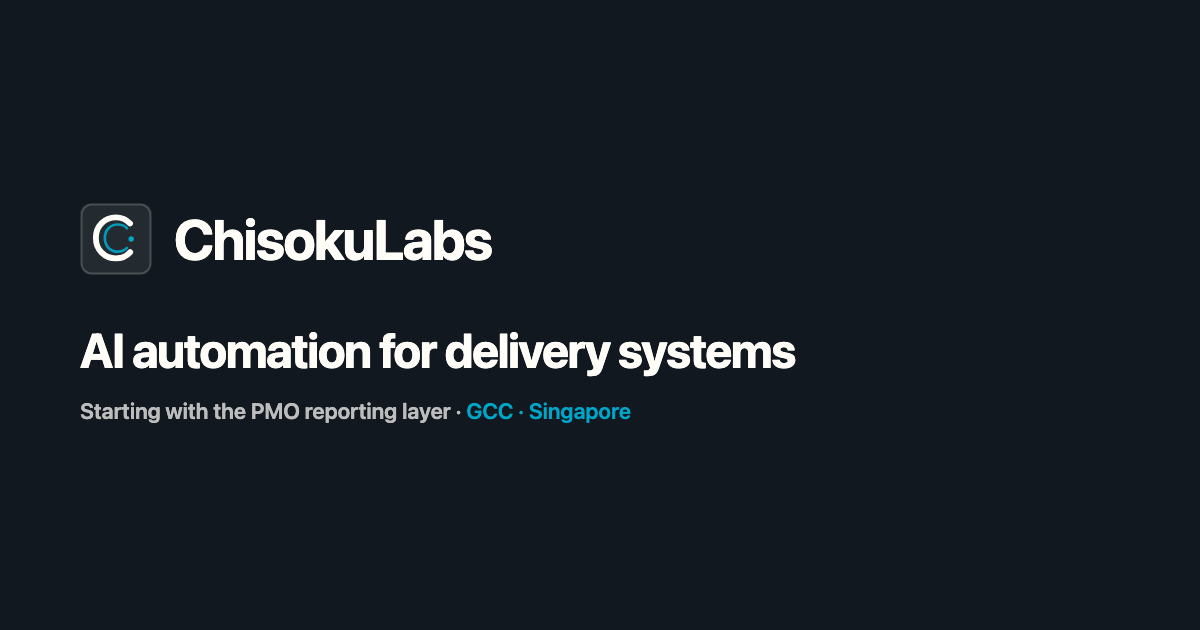
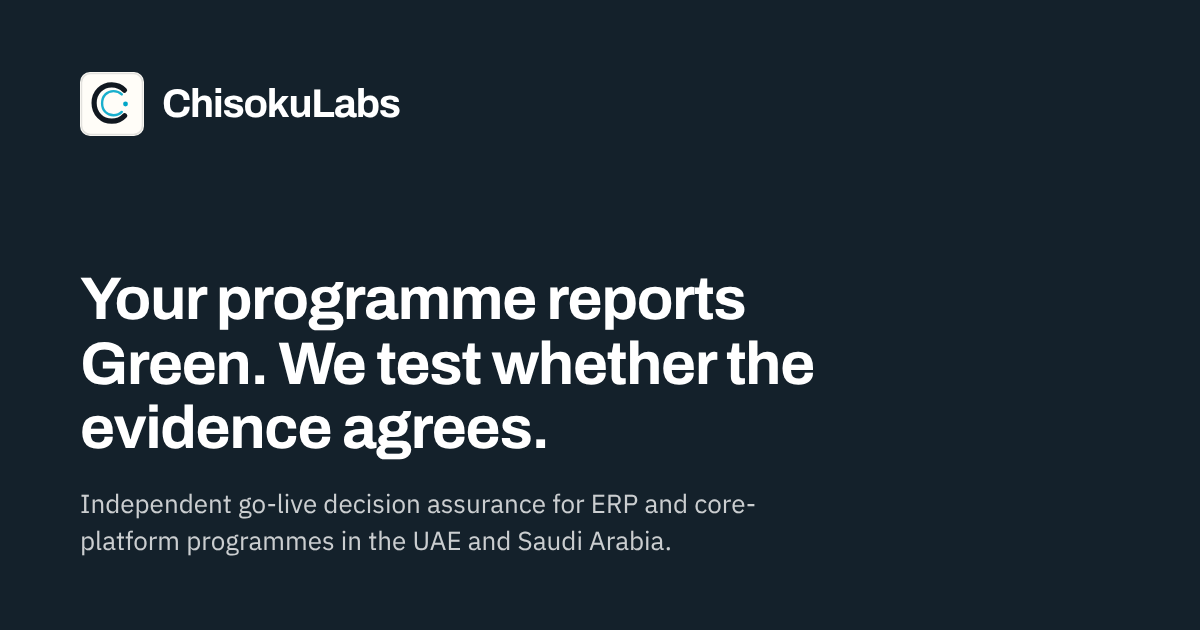
E1.3/E1.5 follow-ups: legacy metadata out, "a"/"an" slip label
- layout.tsx: default title, description, Open Graph and Twitter use the
  new positioning (src/lib/seo.ts); old keywords and the three old-offer
  Service JSON-LD blocks removed (E8.4 adds the new ones).
- public/og.png: new share image (hero headline on ink); the old one
  said "AI automation for delivery systems ... GCC, Singapore".
- Homepage metadata repeats the share image (nested metadata replaces
  the layout's).
- slipLabel(): "Cost of an 8-week slip"; unit test added.
- PRD: IN-7 and IN-9 recorded as approved.

Claude-Session: https://claude.ai/code/session_01PjTSmoa7gbhvyfhk5vcqXm

diff --git a/src/app/layout.tsx b/src/app/layout.tsx
@@ -4,13 +4,8 @@ import "../styles/globals.css";
 import { JsonLdScript } from "../components/aeo/JsonLdScript";
 import { Nav } from "../components/layout/Nav";
 import { Footer } from "../components/layout/Footer";
-import {
-  auditServiceJsonLd,
-  diagnosticServiceJsonLd,
-  implementationServiceJsonLd,
-  organizationJsonLd,
-  websiteJsonLd,
-} from "../lib/jsonLd";
+import { organizationJsonLd, websiteJsonLd } from "../lib/jsonLd";
+import { defaultDescription, defaultTitle, ogImage } from "../lib/seo";
 import { siteConfig } from "../lib/siteConfig";
 import { Analytics } from "@vercel/analytics/next";
 import { SpeedInsights } from "@vercel/speed-insights/next";
@@ -41,43 +36,26 @@ const siteUrl = siteConfig.url;
 export const metadata: Metadata = {
   metadataBase: new URL(siteUrl),
   title: {
-    default: "PMO Reporting Automation | ChisokuLabs",
+    default: defaultTitle,
     template: "%s | ChisokuLabs",
   },
-  description:
-    "ChisokuLabs builds AI automation into delivery systems—starting with the PMO reporting layer for growth-stage SMEs in the GCC and Singapore.",
-  keywords: [
-    "AI automation delivery systems",
-    "PMO reporting automation",
-    "PMO automation audit GCC",
-    "project reporting AI Singapore",
-    "ChisokuLabs",
-  ],
+  description: defaultDescription,
   alternates: {
     canonical: siteUrl,
   },
   openGraph: {
     type: "website",
     url: siteUrl,
-    title: "AI Automation for Delivery Systems | ChisokuLabs",
-    description:
-      "Find delivery drag in the PMO reporting layer—then automate what repeats.",
+    title: defaultTitle,
+    description: defaultDescription,
     siteName: "ChisokuLabs",
-    images: [
-      {
-        url: "/og.png",
-        width: 1200,
-        height: 630,
-        alt: "ChisokuLabs — AI automation for delivery systems",
-      },
-    ],
+    images: [ogImage],
   },
   twitter: {
     card: "summary_large_image",
-    title: "AI Automation for Delivery Systems | ChisokuLabs",
-    description:
-      "Starting with the PMO reporting layer for GCC and Singapore growth-stage SMEs.",
-    images: ["/og.png"],
+    title: defaultTitle,
+    description: defaultDescription,
+    images: [ogImage.url],
   },
   icons: {
     icon: "/brand/favicon-mark.png",
@@ -106,15 +84,7 @@ export default function RootLayout({
           <main className="site-main pt-20">{children}</main>
           <Footer />
         </div>
-        <JsonLdScript id="chisokulabs-audit-service-ld-json" data={auditServiceJsonLd()} />
-        <JsonLdScript
-          id="chisokulabs-diagnostic-service-ld-json"
-          data={diagnosticServiceJsonLd()}
-        />
-        <JsonLdScript
-          id="chisokulabs-implementation-service-ld-json"
-          data={implementationServiceJsonLd()}
-        />
+        {/* The old-offer Service JSON-LD is gone; E8.4 adds Service and Offer blocks for the new offers. */}
         <Analytics />
         <SpeedInsights />
       </body>

diff --git a/src/components/home/SlipCostEstimator.tsx b/src/components/home/SlipCostEstimator.tsx
@@ -2,7 +2,7 @@
 
 import * as React from "react";
 import { formatPrice, offerPriceLabel, siteConfig } from "../../lib/siteConfig";
-import { slipEstimate, type SlipInputs } from "../../lib/slipEstimate";
+import { slipEstimate, slipLabel, type SlipInputs } from "../../lib/slipEstimate";
 import { track } from "../../lib/track";
 import { Button } from "../ui/Button";
 import { Sheet } from "../ui/Sheet";
@@ -53,7 +53,8 @@ export function SlipCostEstimator() {
   const priceText = price.founding ? `${price.list} list, ${price.founding} founding-client rate` : price.list;
 
   // Announce the result once typing pauses, so screen readers are not flooded on every keystroke.
-  const summary = `Cost per week of slip: ${weekly}. Cost of a ${weeks}-week slip: ${total}.`;
+  const totalLabel = slipLabel(weeks);
+  const summary = `Cost per week of slip: ${weekly}. ${totalLabel}: ${total}.`;
   React.useEffect(() => {
     if (!tracked.current) return;
     const timer = window.setTimeout(() => setAnnouncement(summary), ANNOUNCE_DELAY_MS);
@@ -119,7 +120,7 @@ export function SlipCostEstimator() {
             <dd className="t-data mt-2 text-[32px] leading-none tracking-[-0.03em] text-ink min-[641px]:text-[40px]">{weekly}</dd>
           </div>
           <div>
-            <dt className="t-small text-muted">{`Cost of a ${weeks}-week slip`}</dt>
+            <dt className="t-small text-muted">{totalLabel}</dt>
             <dd className="t-data mt-2 text-[32px] leading-none tracking-[-0.03em] text-ink min-[641px]:text-[40px]">{total}</dd>
           </div>
         </dl>
@@ -144,7 +145,7 @@ export function SlipCostEstimator() {
 
         <div aria-hidden className="grid gap-2 text-[13px]">
           <p className="flex justify-between gap-3">
-            <span className="font-semibold text-ink">{`Cost of a ${weeks}-week slip`}</span>
+            <span className="font-semibold text-ink">{totalLabel}</span>
             <span className="t-data text-ink">{total}</span>
           </p>
           <span className="h-3.5 overflow-hidden rounded-full bg-faint">

diff --git a/src/app/page.tsx b/src/app/page.tsx
@@ -17,19 +17,20 @@ import { SlipCostEstimator } from "../components/home/SlipCostEstimator";
 import { Button } from "../components/ui/Button";
 import { Section } from "../components/ui/Section";
 import { Sheet } from "../components/ui/Sheet";
+import { defaultTitle, ogImage } from "../lib/seo";
 import { siteConfig } from "../lib/siteConfig";
 import { cn } from "../lib/utils";
 
-const title = "Independent Go-Live Decision Assurance | ChisokuLabs";
 const description =
   "Before leadership approves a major ERP or core-platform go-live, ChisokuLabs independently tests whether every critical readiness claim has the status, owner, evidence, date and action to defend that decision.";
 
 export const metadata: Metadata = {
-  title: { absolute: title },
+  title: { absolute: defaultTitle },
   description,
   alternates: { canonical: siteConfig.url },
-  openGraph: { title, description, url: siteConfig.url },
-  twitter: { title, description },
+  // Nested metadata replaces the layout's, so the share image is repeated here.
+  openGraph: { type: "website", title: defaultTitle, description, url: siteConfig.url, images: [ogImage] },
+  twitter: { card: "summary_large_image", title: defaultTitle, description, images: [ogImage.url] },
 };
 
 const CTA = {

diff --git a/src/lib/seo.ts b/src/lib/seo.ts
@@ -1,0 +1,14 @@
+import { siteConfig } from "./siteConfig";
+
+// Site-wide metadata defaults (PRD 9.1 wording). E8.4 extends this module with the full SEO set.
+export const defaultTitle = "Independent Go-Live Decision Assurance | ChisokuLabs";
+
+export const defaultDescription = `${siteConfig.tagline} for ERP and core-platform programmes in the UAE and Saudi Arabia.`;
+
+/** The share image: the hero headline on ink (public/og.png). */
+export const ogImage = {
+  url: "/og.png",
+  width: 1200,
+  height: 630,
+  alt: `ChisokuLabs: ${siteConfig.tagline.toLowerCase()}`,
+};

diff --git a/src/lib/slipEstimate.ts b/src/lib/slipEstimate.ts
@@ -40,3 +40,9 @@ export function slipEstimate(
 
   return { weeklyRunRate, totalCost: weeklyRunRate * weeks, comparisonDays };
 }
+
+/** "Cost of a 4-week slip", "Cost of an 8-week slip": "an" when the number is spoken with a vowel (8, 11, 18, 80s). */
+export function slipLabel(weeks: number): string {
+  const article = /^(8|11(?!\d)|18(?!\d))/.test(String(weeks)) ? "an" : "a";
+  return `Cost of ${article} ${weeks}-week slip`;
+}

diff --git a/docs/go-live-repositioning/PRD.md b/docs/go-live-repositioning/PRD.md
@@ -410,7 +410,7 @@ Footnote: "Comparisons describe typical market practice, not specific firms."
 - H2: What a slipped go-live costs.
 - Lead: Put in your own numbers. When a go-live date moves, the programme team, the system integrator and the current system all keep running.
 - Labels: as the inputs above. Small note above the fields: "Example values. Replace them with yours."
-- Outputs: "Cost per week of slip: {weekly}" · "Cost of a {weeks}-week slip: {total}"
+- Outputs: "Cost per week of slip: {weekly}" · "Cost of a {weeks}-week slip: {total}" ("an" before 8, 11, 18 and the 80s)
 - Comparison line: "A Readiness Evidence Check costs {price}: about {days} working days of your programme's run-rate." (with founding price: "{list} list, {founding} founding-client rate")
 - Footnote: "Calculated in your browser from your numbers. Directional only: it leaves out lost benefits, contract penalties and business disruption. Not a forecast for your programme."
 - CTA: primary "Request a free readiness brief" (→ `/contact?request=brief`); text link "Discuss your programme" (→ `/contact?request=review`).
@@ -486,6 +486,6 @@ Self-Check app; Arabic site; blog/CMS; testimonials, logos, case studies; founde
 | IN-4 | Confirm every data-handling statement in 9.7 is true | E6 merge | Do not publish `/independence-and-data` |
 | IN-5 | Calendly link still valid | E9 | Keep current link |
 | IN-6 | When the Self-Check goes live: URL | Later | `selfCheck.live = false` |
-| IN-7 | Approve the estimator copy and example values in 9.11 | E1.5 merge | Do not merge E1.5 |
+| IN-7 | Approve the estimator copy and example values in 9.11 (**approved 17 Oct 2026**, with "a"/"an" chosen by number in "Cost of a {weeks}-week slip") | E1.5 merge | Do not merge E1.5 |
 | IN-8 | Optional: one survey statistic for the estimator, with its source URL | E1.5 | Omit the sourced line |
-| IN-9 | Approve the interface wording in 9.12 | E1.6 merge | Do not merge E1.6 |
+| IN-9 | Approve the interface wording in 9.12 (**approved 17 Oct 2026**) | E1.6 merge | Do not merge E1.6 |
